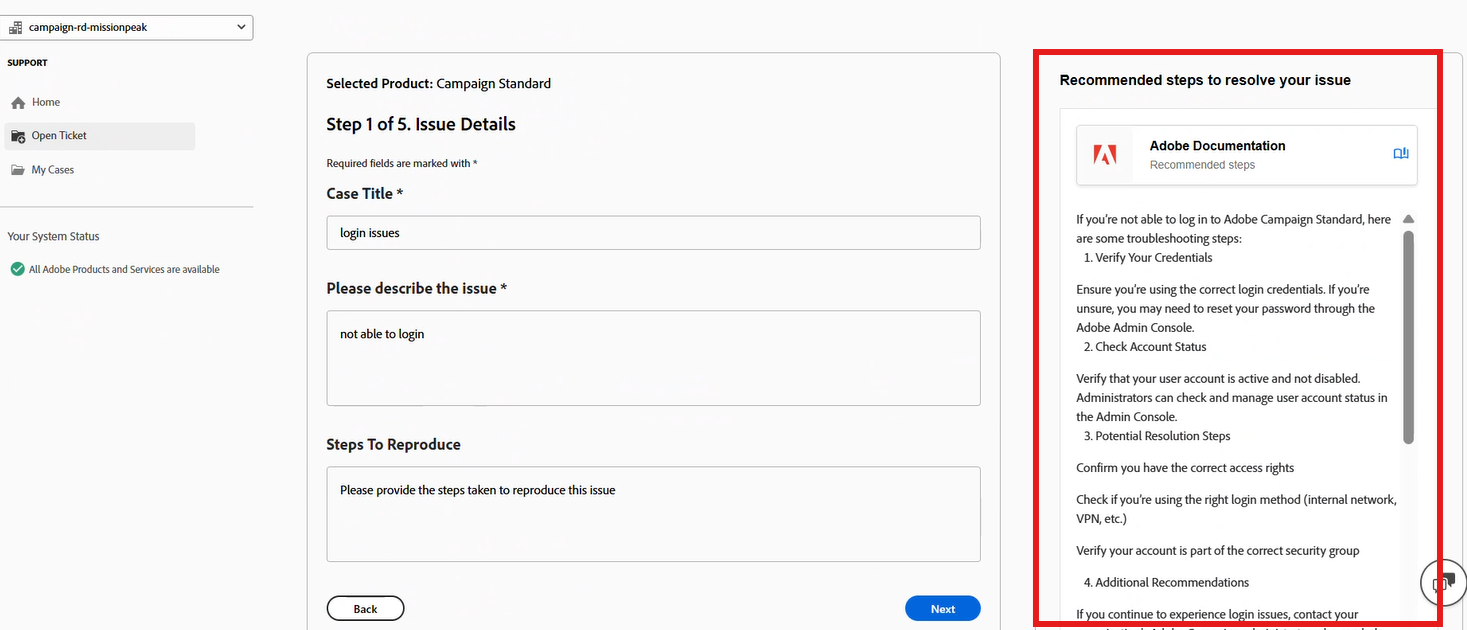
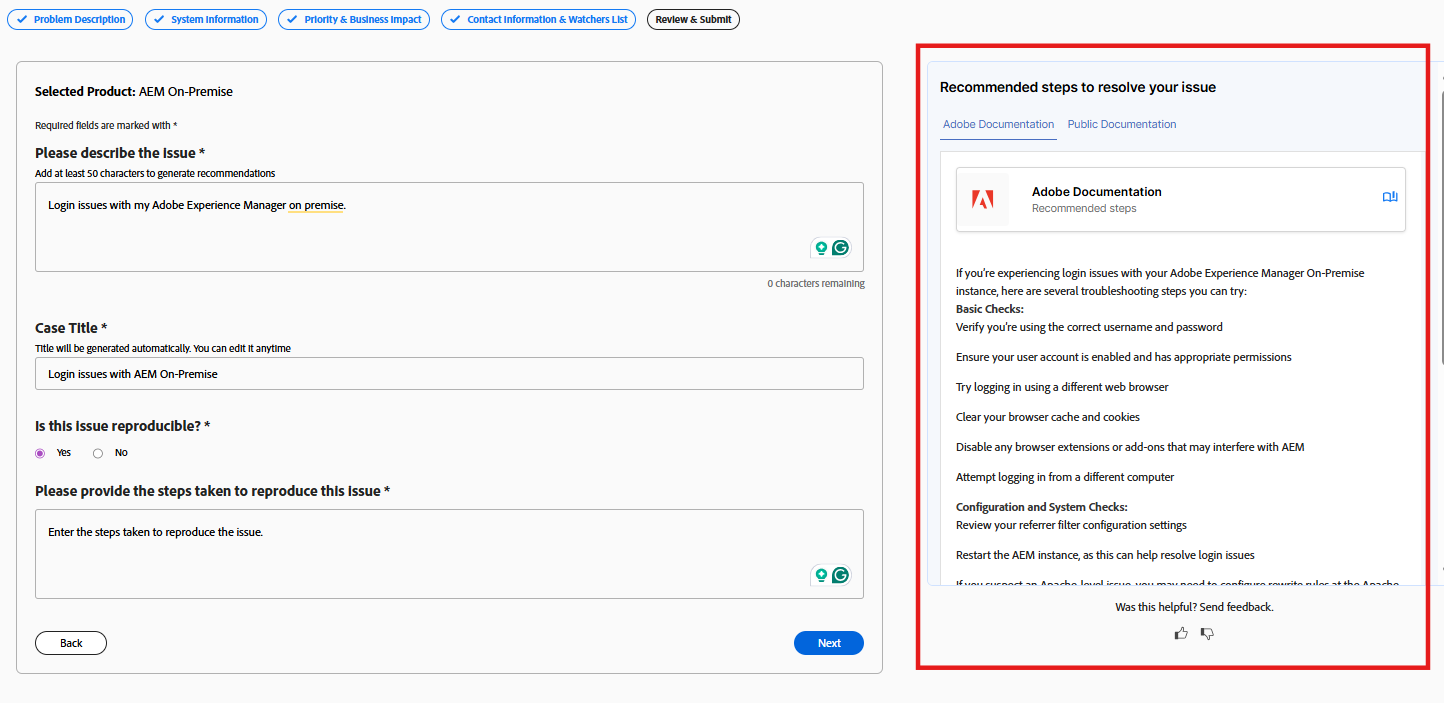
updated images

diff --git a/help/adobe-support-tools-guide/adobe-customer-support-experience.md b/help/adobe-support-tools-guide/adobe-customer-support-experience.md
@@ -100,16 +100,16 @@ Follow these steps to create a support ticket:
 
 1. Click the product name to select the affected product, and then click **[!UICONTROL Next]**.
 
-   ![Experience league select a product](./assets/select-product.png)
+   ![Experience league select a product](./assets/product-selection.png)
 
 1. In the **[!UICONTROL Problem Description]** section, enter a description of the issue. The case title is automatically generated based on the issue description. You can edit the title if needed. Confirm whether the issue can be reproduced. Select **Yes** if the issue is reproducible. A text box appears where you can describe the steps required to reproduce the issue. Select **No** if the issue cannot be consistently reproduced.
 
-   ![Experience league issue details](./assets/issue-details.png)
+   ![Experience league Problem Description](./assets/problem-description.png)
 
    Include details such as:
 
-   * What you’re you are trying to do
-   * What isn’t is not working as expected
+   * What you’re trying to do
+   * What isn’t working as expected
    * Steps you have already taken
    * Whether the issue is reproducible
 
@@ -119,13 +119,19 @@ Follow these steps to create a support ticket:
    * Help you confirm if the issue is already addressed
    * Reduce the need to submit a case for common issues
 
-   The panel appears without interrupting the case creation process. You can review the recommendations anytime and continue submitting the case if needed. To generate recommendations, the **issue description must contain at least 50 characters**. A real-time character counter helps you track the minimum requirement.
+   The panel appears without interrupting the case creation process. You can review the recommendations anytime and continue submitting the case if needed.
+
+   >[!NOTE]
+   >
+   >To generate recommendations, the **issue description must contain at least 50 characters**. A real-time character counter helps you track the minimum requirement.
 
    ![Experience league issue details](./assets/ai-recommendations.png)
 
 1. Click **[!UICONTROL Next]**.
 
-1. In the **[!UICONTROL System Information]** section, provide the issue reason and Indicate whether **any recent changes were made to the environment or instance**. Select **Yes** to provide additional details about the changes. Select **No** if no changes were made and click **[!UICONTROL Next]**.
+   ![Click next option](./assets/click-next.png)
+
+1. In the **[!UICONTROL System Information]** section, provide the **[!UICONTROL Product Version]**, **[!UICONTROL Environment]**, **[!UICONTROL Product Offering]**, and indicate whether any recent changes were made to the environment or instance. Select **Yes** to provide additional details about the changes. Select **No** if no changes were made and click **[!UICONTROL Next]**.
 
    >[!NOTE]
    >
@@ -133,23 +139,21 @@ Follow these steps to create a support ticket:
 
    ![Experience league system information](./assets/system-information.png)
 
-1. In the **[!UICONTROL Impact]** section, select the below:
+1. In the **[!UICONTROL Priority & Business Impact]** section, select the following:
    * Case Priority (P4 - Minor, P3 - Important, P2 - Urgent, P1 - Critical)
-   * Provide the Business Impact details when the selected Priority is P1 – Critical.
+   * Provide the Business Impact details when the selected Priority is P1 – Critical, and then click **[!UICONTROL Next]**.
 
-   ![Experience league impact details](./assets/impact.png)
+   ![Experience league Priority & Business Impact](./assets/priority-business-impact.png)
 
    For details on how Case Priority and Business Impact affect support response times, see [Targeted Initial Response Times for Support](https://experienceleague.adobe.com/en/docs/support-resources/data-sheets/overview#targeted-initial-response-times-for-support) in the Success Plans Resources documentation.
 
-1. Click **[!UICONTROL Next]**.
-
-1. In the **[!UICONTROL Contact Information]** section, select the timezone, enter your phone number, add watchers, attach any files if needed, and then click **[!UICONTROL Next]**.
+1. In the **[!UICONTROL Contact Information & Watchers List]** section, select the time zone, enter your phone number, add watchers, attach any files if needed, and then click **[!UICONTROL Next]**.
 
    ![Experience league contact information](./assets/contact-information.png)
 
-1. In the **[!UICONTROL Review & Submit]** section, review your case details and click **[!UICONTROL Submit]**.
+1. In the **[!UICONTROL Review & Submit]** section, review your case details and click **[!UICONTROL Approve & Submit Case]**.
 
-   ![Experience league review and submit](./assets/review-and-submit.png)
+   ![Experience league review and submit](./assets/submit-case.png)
 
    The **[!UICONTROL Review & Submit]** step summarizes all the entered information and allows you to:
 
